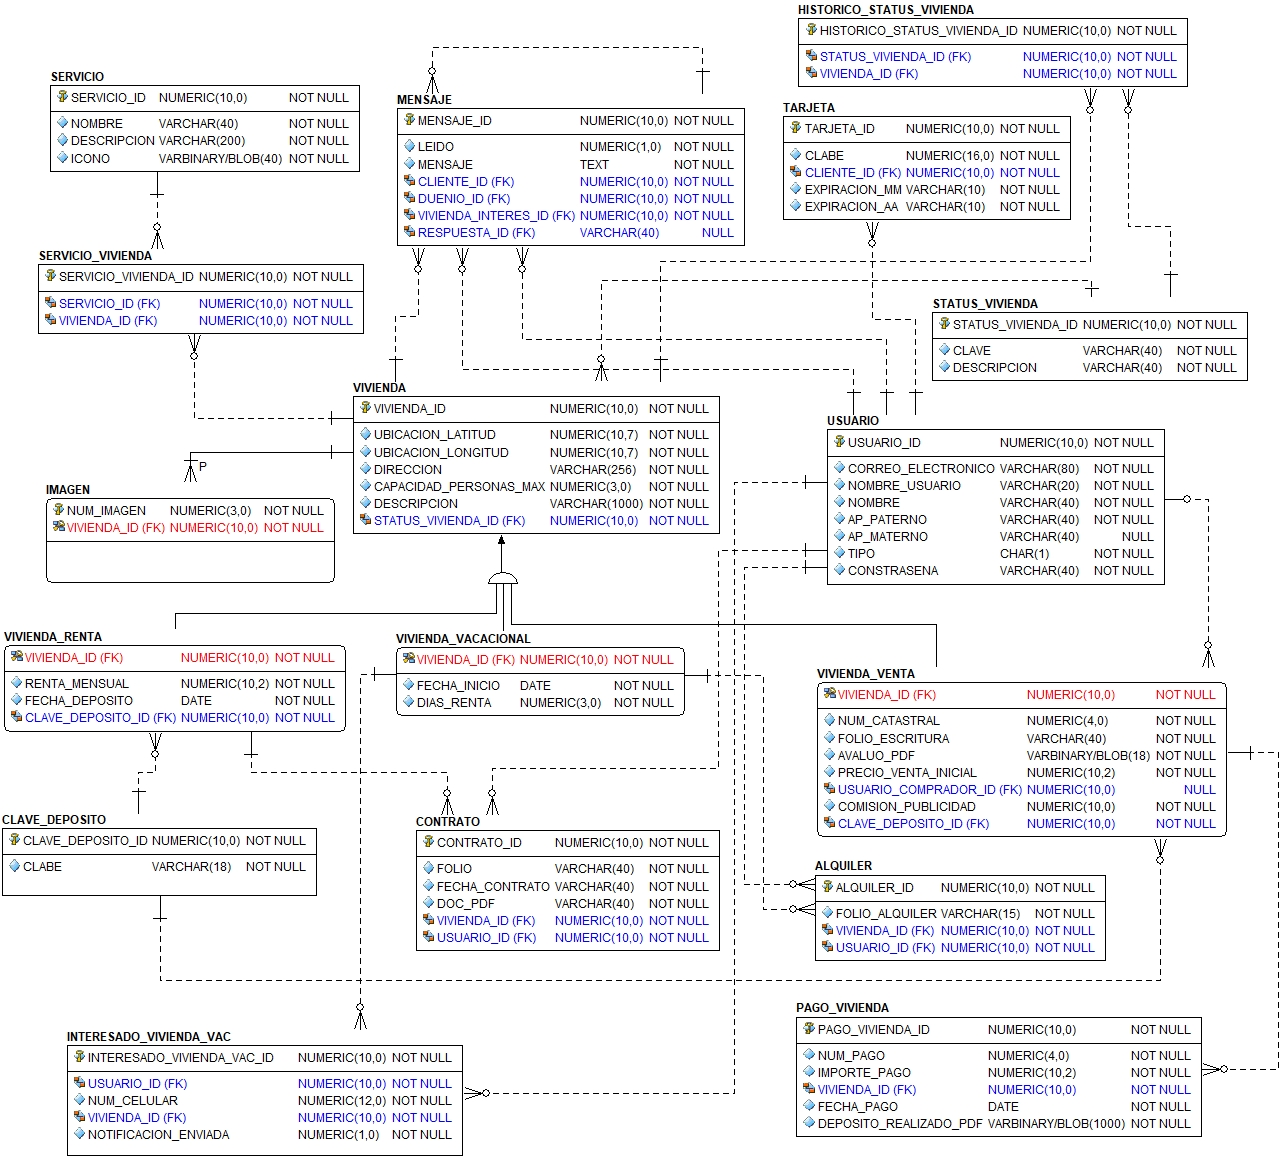
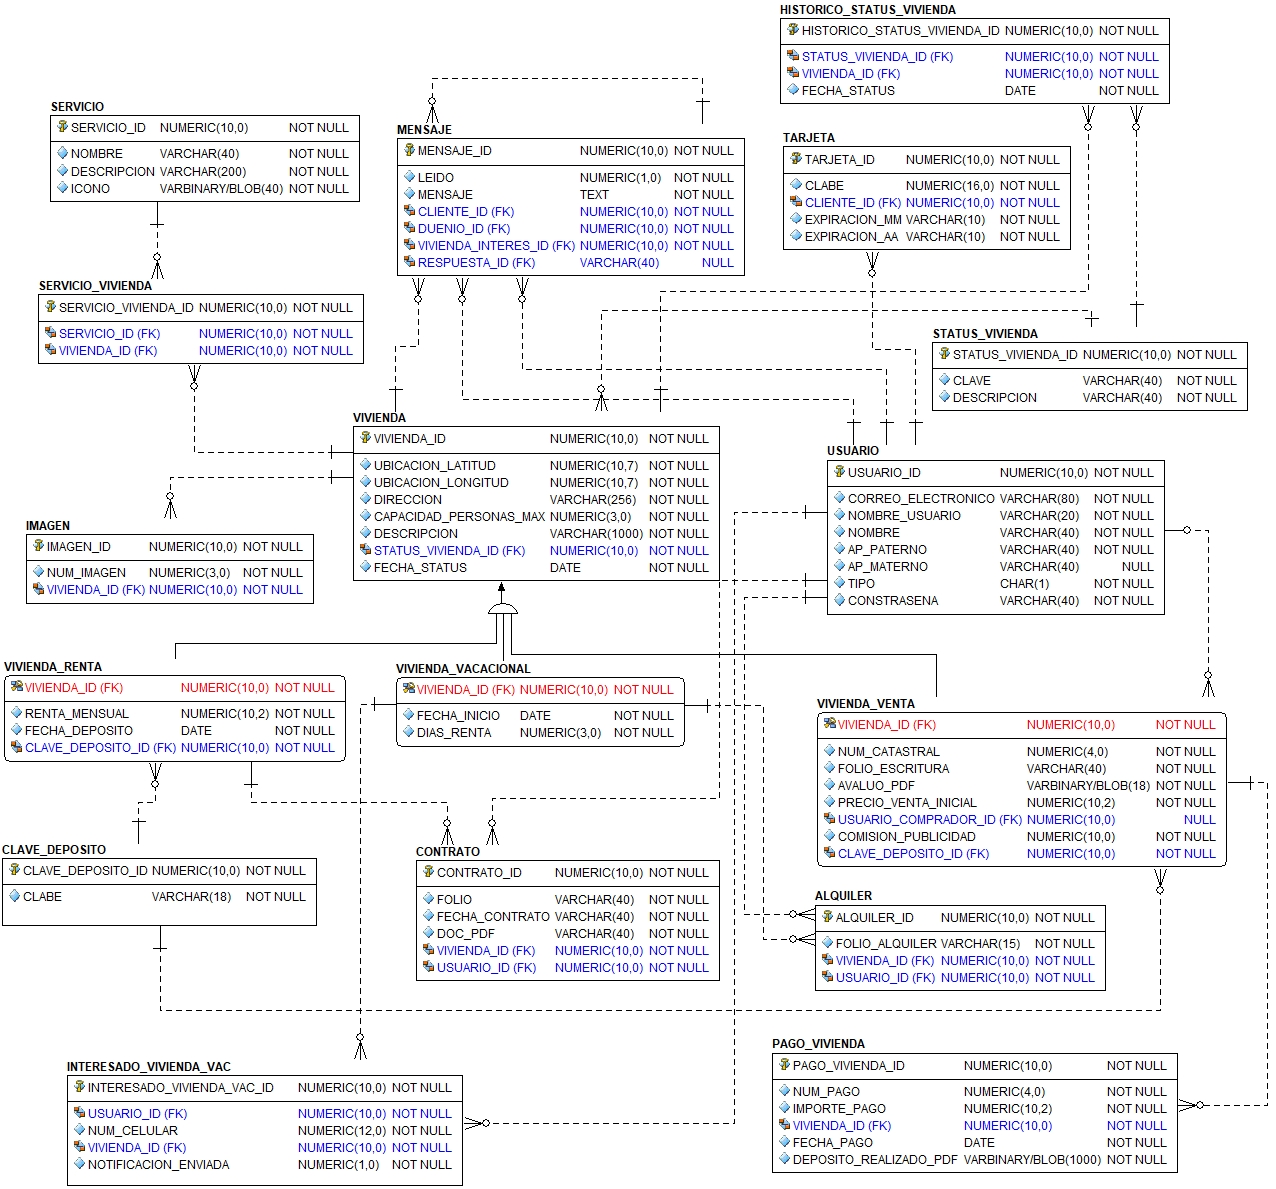
Agrego fecha

diff --git a/proyecto_final/README.md b/proyecto_final/README.md
@@ -33,6 +33,24 @@ Este proyecto esta licenciado aún no tiene una licencia pero se encontrará  [a
 
 La guía para contribuir al proyecto se encuentre [aquí](CONTRIBUTING)
 
+### Dudas
+
+1. ¿Se deben almacenar las fechas de conformidad?
+2. ¿La notificación es una entidad?
+
+### Elementos del modelo
+
+#### Constraints
+
+##### UNIQUE
+
+1. (num_imagen,vivienda_id)
+
+#### Triggers
+
+1. No se puede insertar en **vivienda_venta** si ya se inserto en **vivienda_vacacional** o en **vivienda_renta**.
+2. Cuando **una vivienda para vacacionar** este disponible, se enviarará un mensaje a todos los usuarios interesados.
+
 ### Todo
 
 * [ ] Agregar cardinalidades y corregir notación Crow's foot, recomiendo cambiar a IDEF1X
